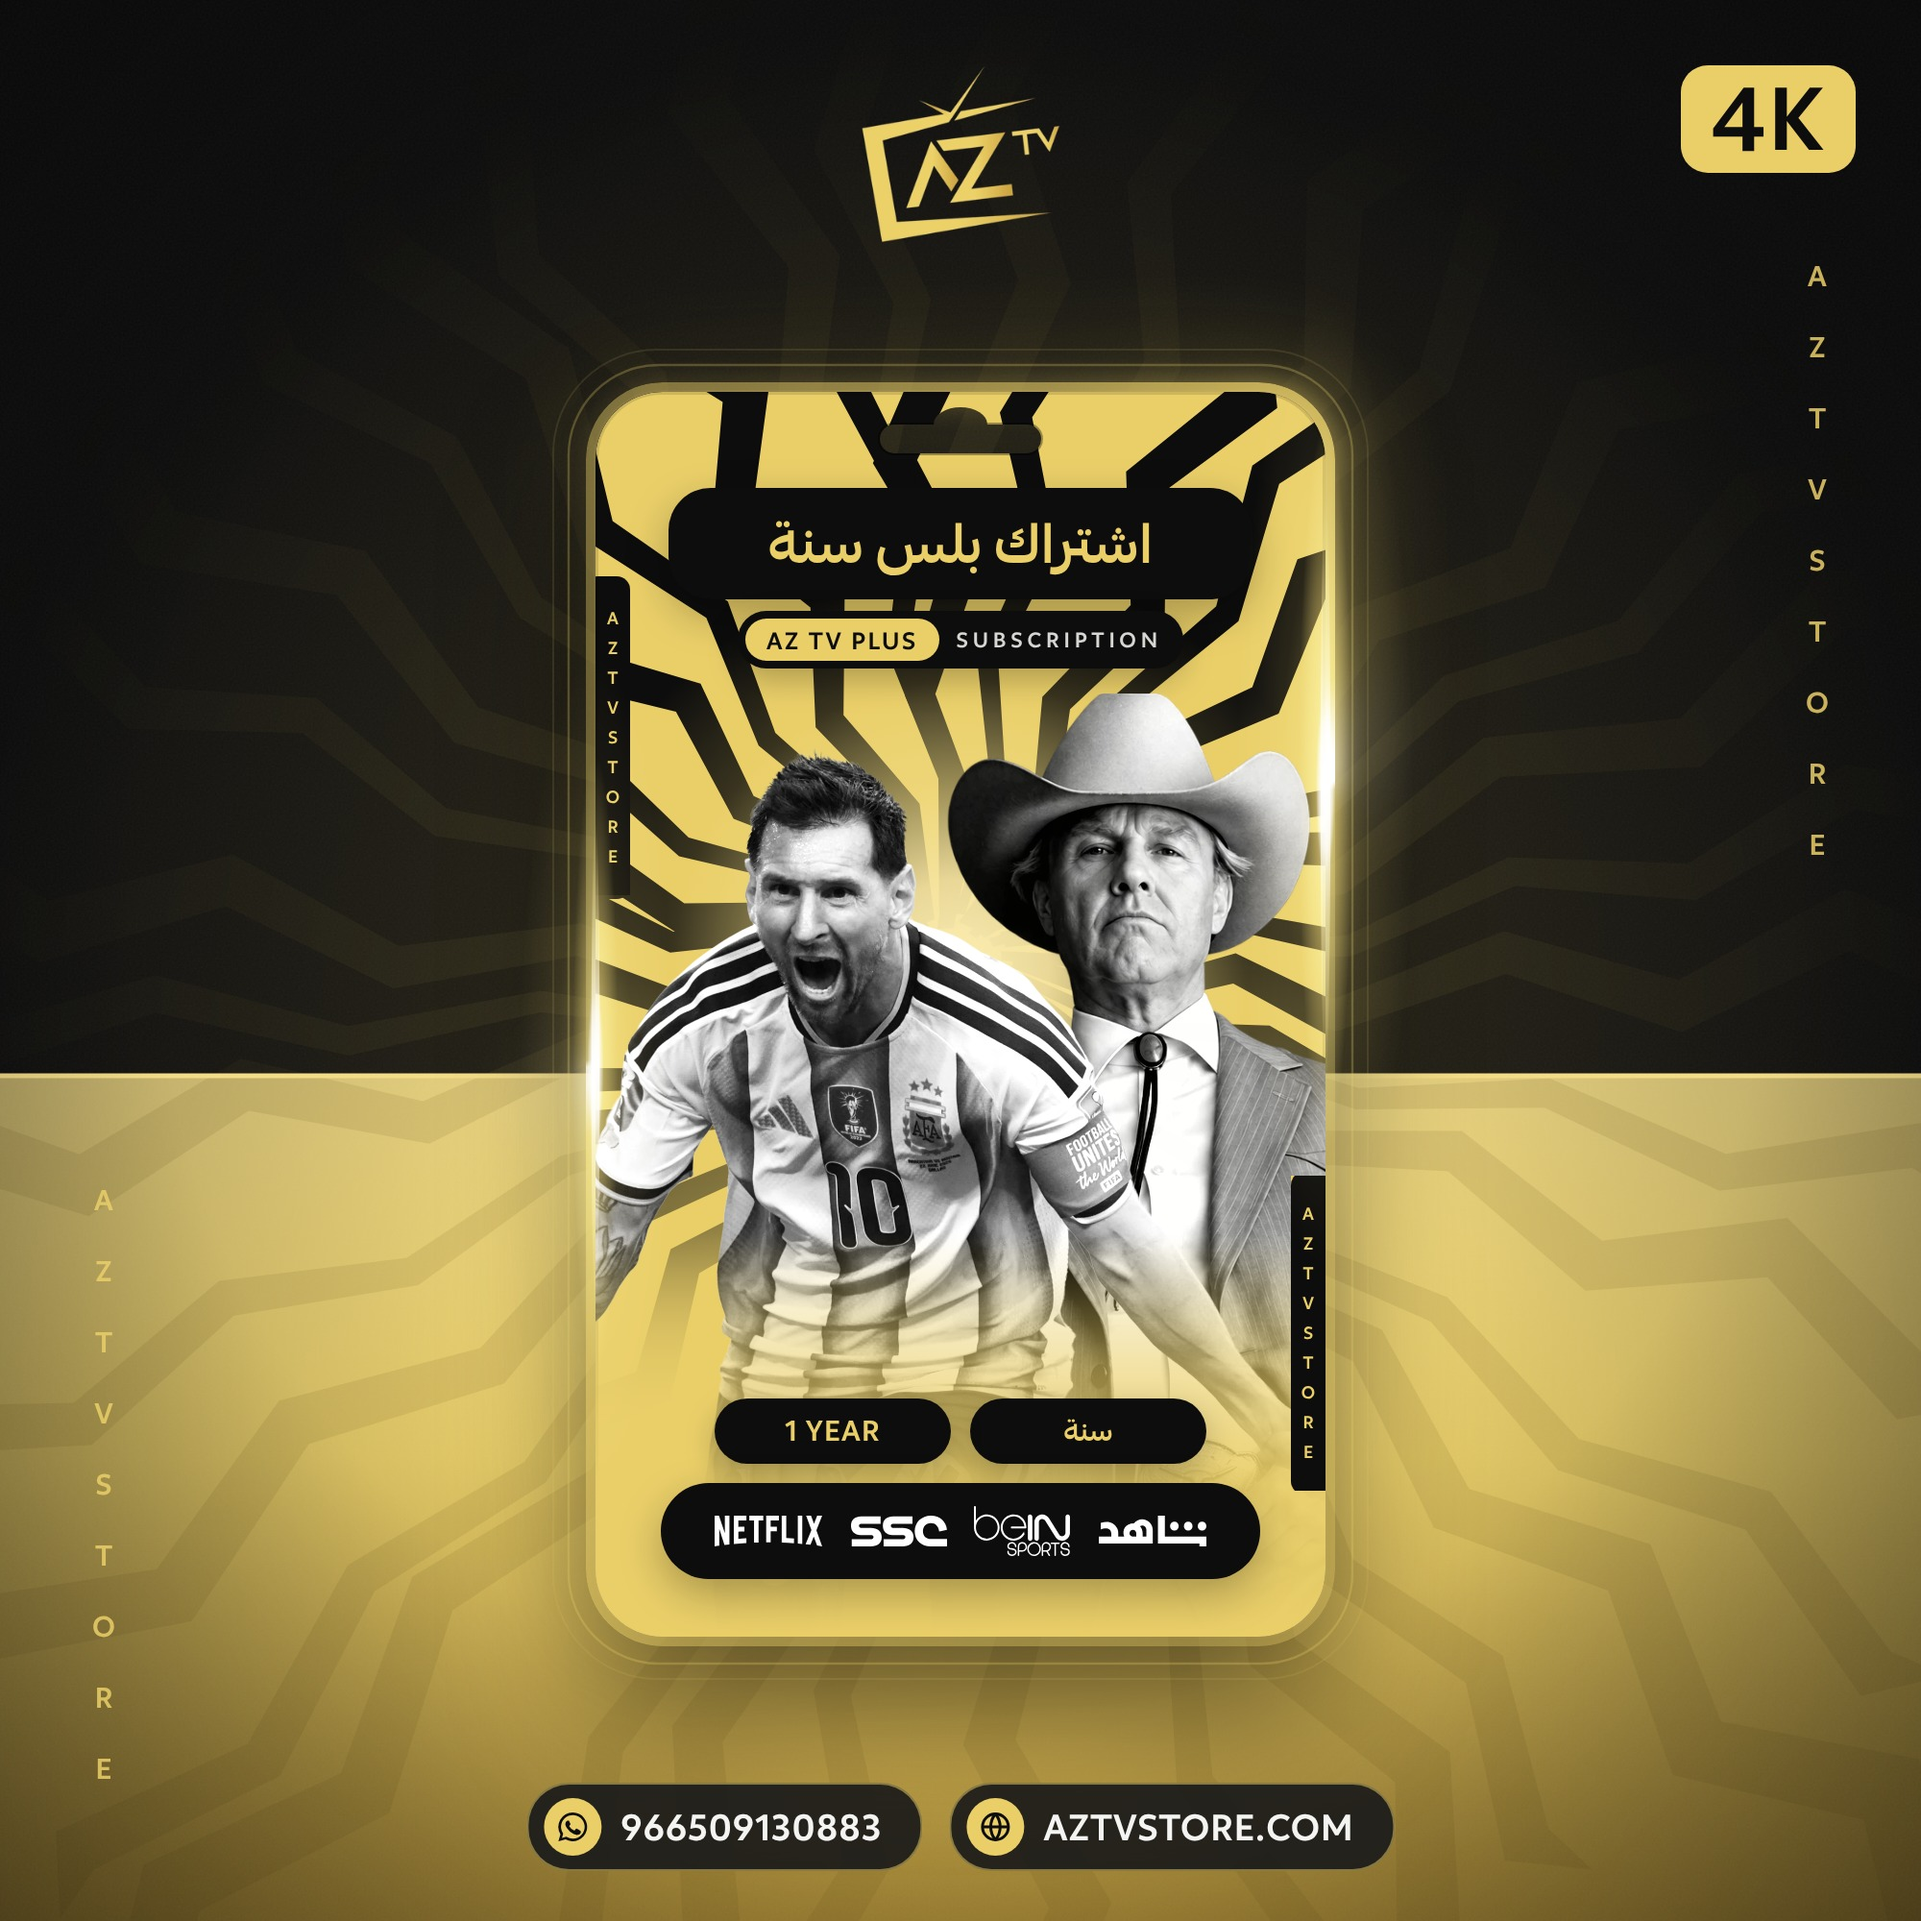
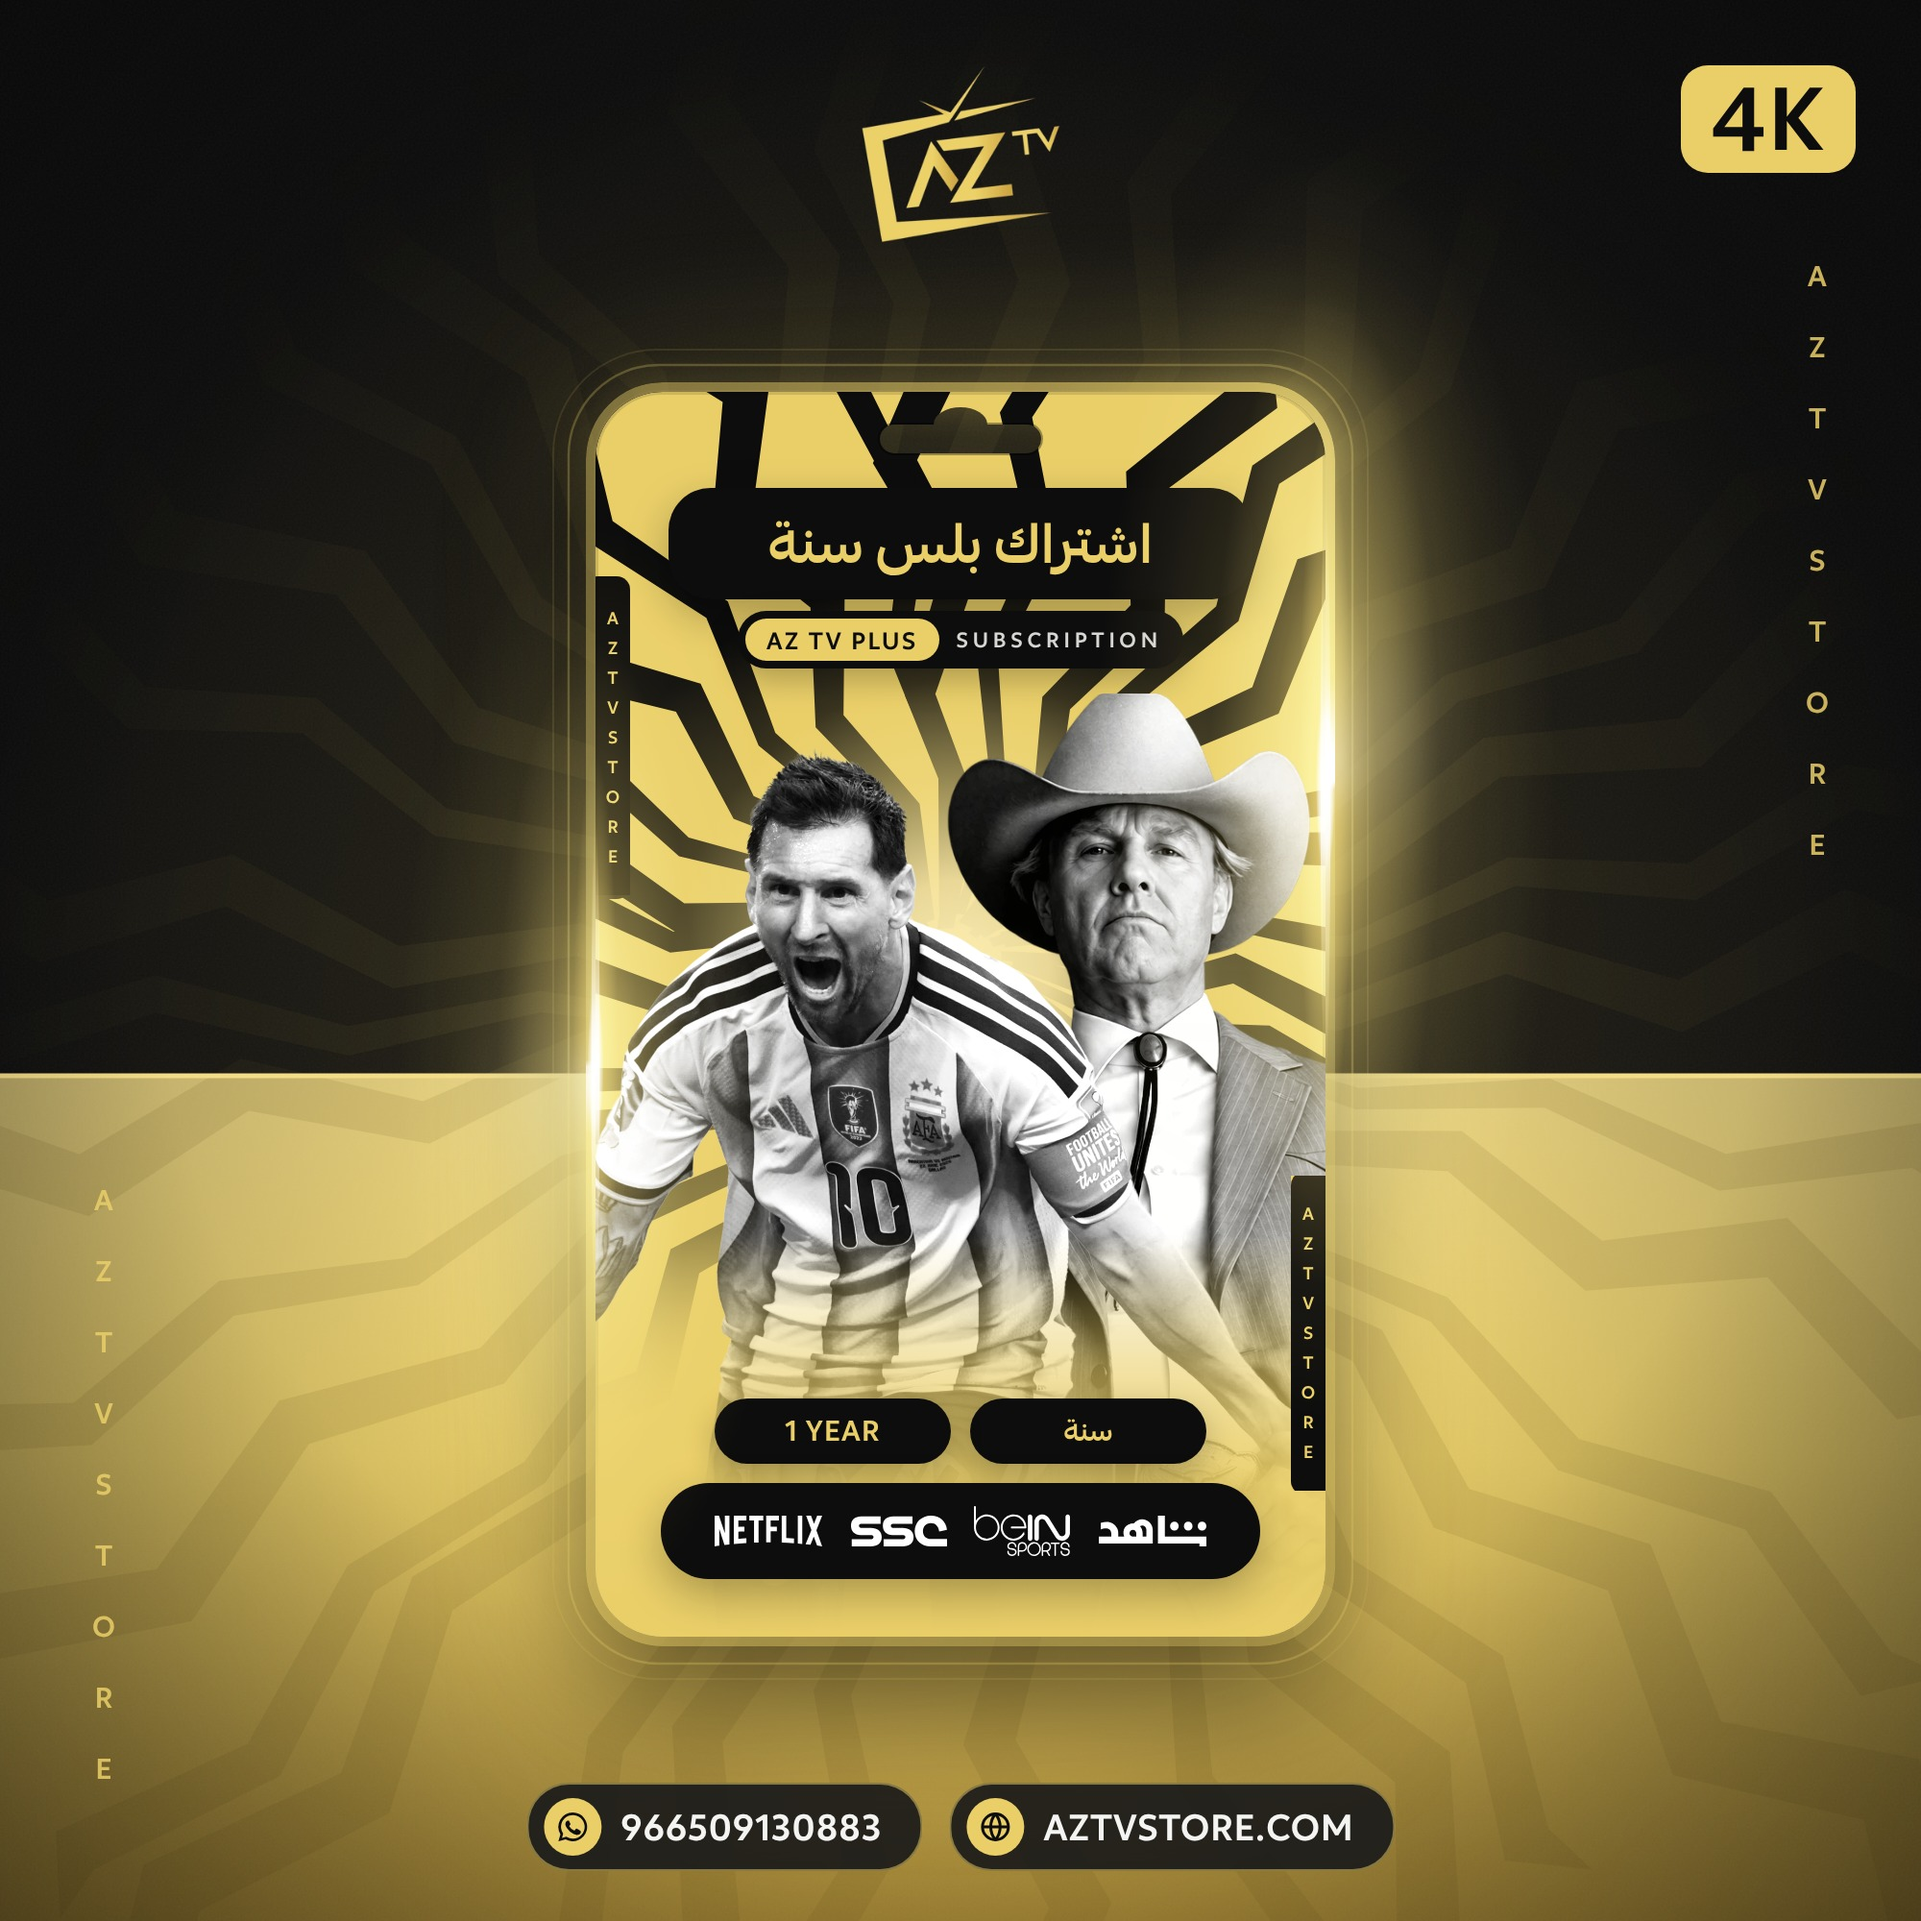
Shine option A: more glow on the spotlights and the rim
Claude-Session: https://claude.ai/code/session_01D8XCbG6TVkErSujRZYkAkh

Changed region(s): [[0.62, 0.155, 0.775, 0.651], [0.248, 0.372, 0.372, 0.682]]

diff --git a/05-design/shared/subscription-backgrounds/backgrounds.html b/05-design/shared/subscription-backgrounds/backgrounds.html
@@ -114,6 +114,10 @@
       transparent 0deg, rgba(var(--glow), .08) 300deg, rgba(var(--glow), .35) 330deg, rgba(var(--glow), .85) 352deg, #fff 357deg, #fff 359deg, transparent 360deg),
       rgba(var(--glow), .3); }
   .shine-a > .edge { padding: 5px; }
+  /* more glow round the lit rim (client 2026-10-27) */
+  .shine-a .glow-wrap.blur { filter: blur(9px); }
+  .shine-a .glow-wrap.blur2 { filter: blur(30px); opacity: 1; }
+  .shine-a .glow-wrap.blur2 .edge { padding: 22px; left: 290px; top: 184px; width: 420px; height: 688px; border-radius: 55px; }
   .shine-a .glow-wrap .edge { padding: 11px; }
   .shine-a .edge { background-position: center; }
   /* B: the whole rim burns, brightest on the four corners */
@@ -284,12 +288,13 @@ bg.style.setProperty("--glow", C.glow);
     // vertical spotlight on the side edge, like a studio light caught on the card's rim: no round blobs, only tall soft
     // shapes that are brightest in the middle and fade out up and down. k = strength; warm = more tier colour, less white
     const spot = ([x, y], k, warm) => `<g transform="translate(${x.toFixed(1)} ${y.toFixed(1)})" style="mix-blend-mode:screen">
-      <ellipse rx="${46 * k}" ry="${250 * k}" fill="url(#spotWide)" opacity="${.8 * k}"/>
+      <ellipse rx="${120 * k}" ry="${330 * k}" fill="url(#spotWide)" opacity="${.55 * k}"/>
+      <ellipse rx="${60 * k}" ry="${260 * k}" fill="url(#spotWide)" opacity="${k}"/>
       <ellipse rx="${14 * k}" ry="${190 * k}" fill="url(#spotMid)" opacity="${warm ? .8 : .95}"/>
       <ellipse rx="${2.6 * k}" ry="${150 * k}" fill="url(#streakV)"/>
       <ellipse rx="${5 * k}" ry="${46 * k}" fill="url(#spotHot)" opacity="${warm ? .75 : 1}"/></g>`;
     const spotDefs = `<defs>
-      <radialGradient id="spotWide"><stop offset="0" stop-color="rgb(${g})" stop-opacity=".55"/><stop offset=".5" stop-color="rgb(${g})" stop-opacity=".16"/><stop offset="1" stop-color="rgb(${g})" stop-opacity="0"/></radialGradient>
+      <radialGradient id="spotWide"><stop offset="0" stop-color="rgb(${g})" stop-opacity=".8"/><stop offset=".45" stop-color="rgb(${g})" stop-opacity=".28"/><stop offset="1" stop-color="rgb(${g})" stop-opacity="0"/></radialGradient>
       <radialGradient id="spotMid"><stop offset="0" stop-color="#fff" stop-opacity=".9"/><stop offset=".35" stop-color="rgb(${g})" stop-opacity=".6"/><stop offset="1" stop-color="rgb(${g})" stop-opacity="0"/></radialGradient>
       <radialGradient id="spotHot"><stop offset="0" stop-color="#fff"/><stop offset=".7" stop-color="#fff" stop-opacity=".6"/><stop offset="1" stop-color="#fff" stop-opacity="0"/></radialGradient></defs>`;
     // two lights at different places (client): the main one high on the right edge, a softer, warmer one low on the left edge

diff --git a/05-design/shared/subscription-cards/README.md b/05-design/shared/subscription-cards/README.md
@@ -48,7 +48,7 @@ The client asked for the product images to be "more shining". A first try (glow 
 
 The client liked the edge light and asked for two more epic options built on it, on the same two images:
 
-- **Option A «comet»** (`product-images/f-shine-a/`, `&shine=a`), **the chosen direction**: two vertical spotlights on the card's side edges, like a studio light caught on the rim (tall soft shapes, brightest in the middle, no round blobs): the main one bright and white, on the upper half of the right edge (lowered so it stays on the card edge and does not spill above the card); a second, softer and warmer one lower on the left edge, just above the stage split so it stays visible. Each trails a fading light tail round the rim (clockwise). Two faint outer frame lines around the card. History: first horizontal flares (not realistic), then vertical flares at the same height on both sides with round cores (client: not realistic, too similar).
+- **Option A «comet»** (`product-images/f-shine-a/`, `&shine=a`), **the chosen direction**: two vertical spotlights on the card's side edges, like a studio light caught on the rim (tall soft shapes, brightest in the middle, no round blobs): the main one bright and white, on the upper half of the right edge (lowered so it stays on the card edge and does not spill above the card); a second, softer and warmer one lower on the left edge, just above the stage split so it stays visible. Each trails a fading light tail round the rim (clockwise). Two faint outer frame lines around the card. More glow on both spotlights and round the rim (client, 2026-10-27). History: first horizontal flares (not realistic), then vertical flares at the same height on both sides with round cores (client: not realistic, too similar).
 - Option B «power-up» (burning rim and light beams across the stage) was rejected; its images were removed (git history), the code stays behind `&shine=b`.
 - Export: `node render-products.cjs f shine-a aztv-3m plus-12m` (or `shine-b`); all cards once one is chosen: `node render-products.cjs f shine-a`.
 
